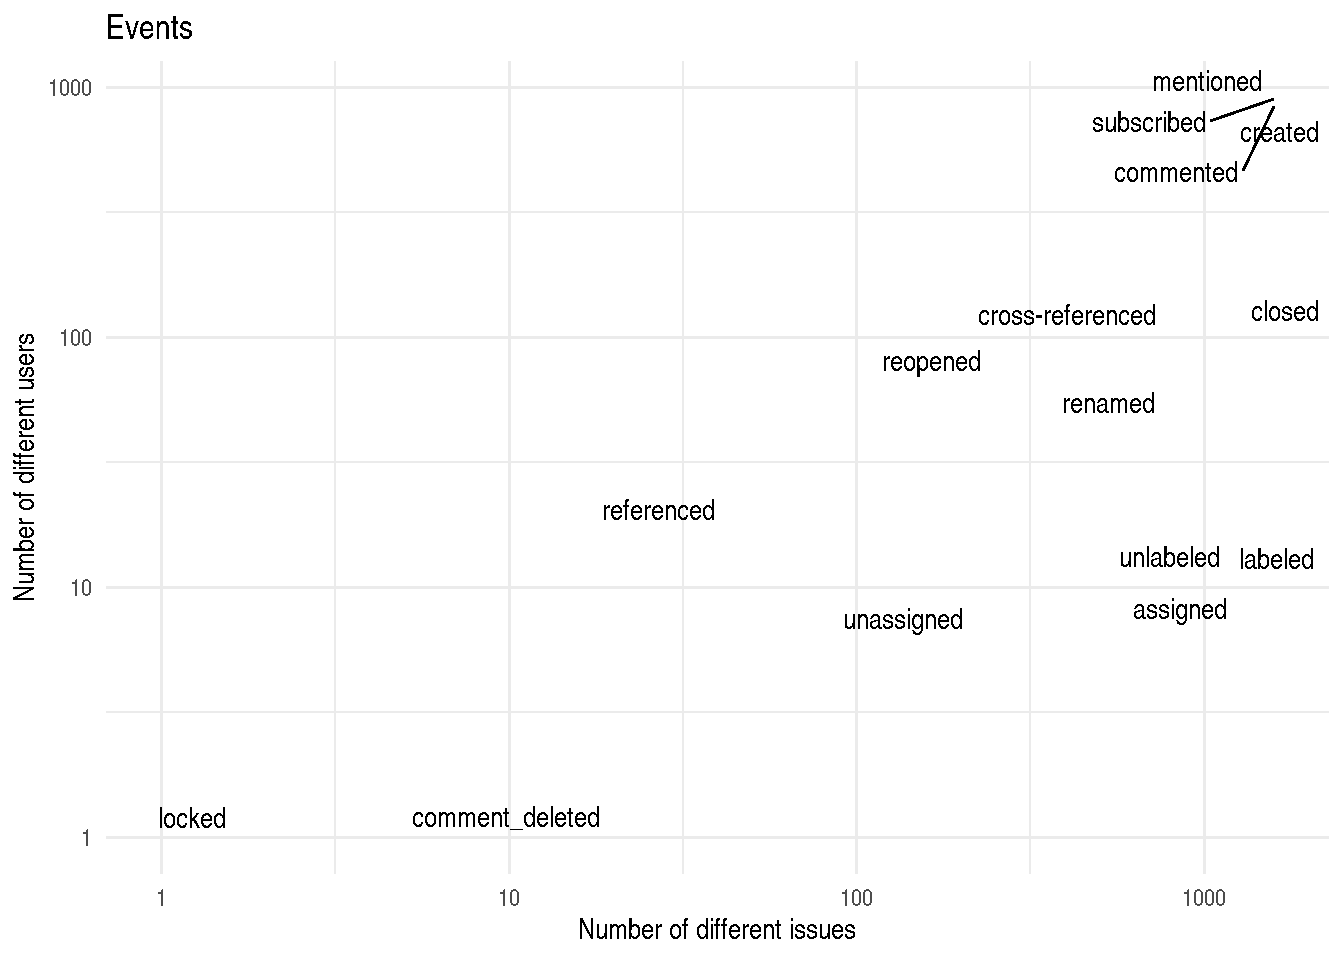
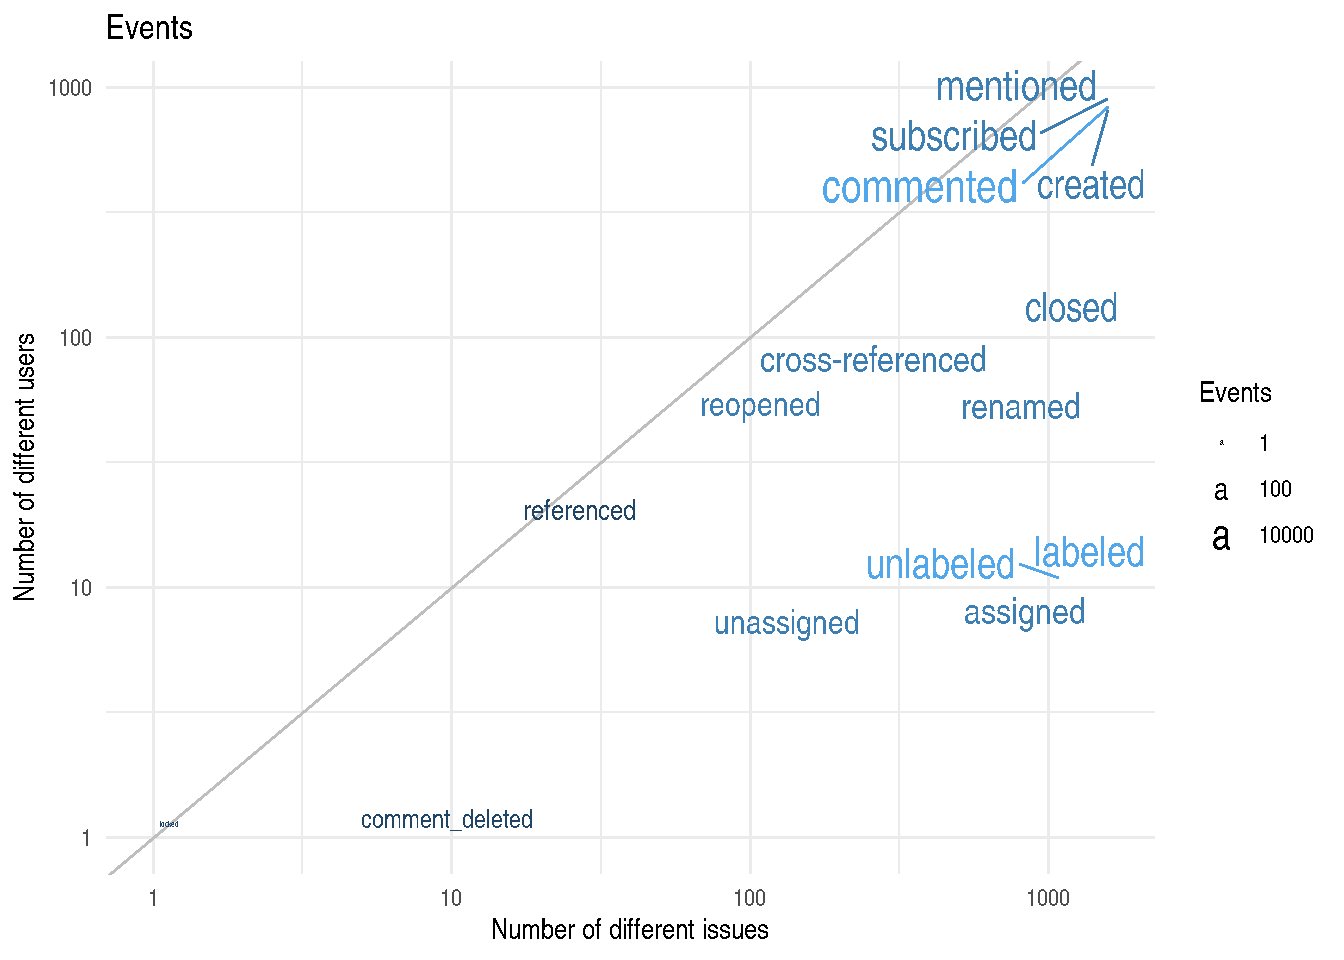
Update plots

diff --git a/content/post/2020-07-09-bioconductor-submissions-reviews.en.html b/content/post/2020-07-09-bioconductor-submissions-reviews.en.html
@@ -31,20 +31,25 @@ summary: 'Looking in detail to Bioconductor sumbissions: interactions between bo
 <li>issues assigned to multiple people or issues that switched reviewers</li>
 </ul>
 <p>To answer both of them I needed more information.
-On the previous post I only gathered the information of the state of the issues at that moment.
+On the <a href="https://llrs.dev/2020/06/bioconductor-submissions/">previous post</a> I only gathered the information of the state of the issues at that moment.
 This excluded label changes, reviewer changes, renaming the issues, who commented on the issues and many more things.
-To retrieve these information from github I developed a <a href="https://llrs.dev/2020/06/social-github/">new package</a> <a href="https://github.com/llrs/socialGH"><code>{socialGH}</code></a> which downloads it from <a href="https://github.com">Github</a> to make the analysis possible.</p>
-<p>Now that we have more data about the issues we can plot them similarly to what we did on the previous post:</p>
+To retrieve these information from github I developed a <a href="https://llrs.dev/2020/06/social-github/">new package</a> <a href="https://github.com/llrs/socialGH"><code>{socialGH}</code></a> which downloads it from <a href="https://github.com">Github</a> to make this analysis possible.</p>
+<p>I gathered all the information on issues using <a href="https://github.com/llrs/socialGH"><code>{socialGH}</code></a> on the 2020/08/18 and stored them in a tidy format.
+Now that we have more data about the issues we can plot them similarly to what we did on the previous post:</p>
 <p><img src="/post/2020-07-09-bioconductor-submissions-reviews.en_files/figure-html/first_plot-1.png" width="672" /></p>
-<p>We can see that sometimes the issues remained silent for several months and then had a high level of events, or a single one (closing).</p>
+<p>We can see that sometimes the issues remained silent for several months and then had a high level of events, or a single one (closing mainly).</p>
 <p>Compare to the previous version it is surprising to see that one of the earliest issues still gets new events to date.
-Apparently <a href="https://github.com/Bioconductor/Contributions">issue 51</a>, and others, are being used to test the Bioconductor builder.</p>
-<p><img src="/post/2020-07-09-bioconductor-submissions-reviews.en_files/figure-html/by_user-1.png" width="672" /><img src="/post/2020-07-09-bioconductor-submissions-reviews.en_files/figure-html/by_user-2.png" width="672" /></p>
+Apparently <a href="https://github.com/Bioconductor/Contributions/issues/51">issue 51</a>, and <a href="https://github.com/Bioconductor/Contributions/issues?q=label%3ATESTING+is%3Aclosed">others</a>, are being used to test the Bioconductor builder or the bot used to automate the process.</p>
+<p><img src="/post/2020-07-09-bioconductor-submissions-reviews.en_files/figure-html/by_user-1.png" width="672" /></p>
+<p>We can see that some reviewers comment more and are involved in more issues, but there is a group of fairly similar comments and issues.</p>
+<p>Clearly this will not be the same with users who submit packages:</p>
+<p><img src="/post/2020-07-09-bioconductor-submissions-reviews.en_files/figure-html/by_user2-1.png" width="672" /></p>
+<p>We can clearly see that most users are mainly only involved on submitting packages on one issue, but some people participate a lot and/or in several issues.</p>
 <div id="events" class="section level1">
 <h1>Events</h1>
 <p>We cab count how many users and issues have been involved with each event type:</p>
 <p><img src="/post/2020-07-09-bioconductor-submissions-reviews.en_files/figure-html/events_view-1.png" width="672" /></p>
-<p>We can see that few issues are locked or comments deleted.
+<p>We can see that few issues are locked (remember that it is different than closing the issue) or comments deleted.
 There is an almost equal amount of labeling and unlabeling, performed by few people but on lots of issues.
 There is a group of mentioning, commenting and subscribing too.
 Many people is involved on commenting and creating submissions.</p>
@@ -52,17 +57,27 @@ Many people is involved on commenting and creating submissions.</p>
 <p><img src="/post/2020-07-09-bioconductor-submissions-reviews.en_files/figure-html/second_plot-1.png" width="672" /></p>
 <p>We can see that most issues have few events which agrees with the previous findings that issues are handled fairly and expeditiously.</p>
 <p>The most common event are comments, mentions and the rarest events are deleting comments, locking or referencing them.</p>
-<p><img src="/post/2020-07-09-bioconductor-submissions-reviews.en_files/figure-html/events_time-1.png" width="672" /><img src="/post/2020-07-09-bioconductor-submissions-reviews.en_files/figure-html/events_time-2.png" width="672" /><img src="/post/2020-07-09-bioconductor-submissions-reviews.en_files/figure-html/events_time-3.png" width="672" /></p>
+<p><img src="/post/2020-07-09-bioconductor-submissions-reviews.en_files/figure-html/events_time-1.png" width="672" /></p>
+<p>We can see that most issues get around 50 events, but we can clearly see lots of issues that receive very few events.</p>
+<p><img src="/post/2020-07-09-bioconductor-submissions-reviews.en_files/figure-html/events_time2-1.png" width="672" /></p>
+<p>However, looking at the distribution along time most of the events are on the first 6 months after opening the issue.</p>
+<p><img src="/post/2020-07-09-bioconductor-submissions-reviews.en_files/figure-html/events_time3-1.png" width="672" /></p>
 <p>Some submissions have many events while others have few events but last longer.
-This is without looking at issues that were closed and later reopened.
+This is without looking at issues that were closed and later reopened, or the involvement of bioc-issue-bot.
 We can see that in a short amount of days a lot of events can be triggered.
 This is mostly that for each version update there are at least two messages on the issue.</p>
+</div>
+<div id="reviews" class="section level1">
+<h1>Reviews</h1>
+<p>Most of the differences are due to the automatic or manual review of the submissions.</p>
+<p>After passing some preliminary checks a reviewer is assigned to manually review the package:</p>
 <p><img src="/post/2020-07-09-bioconductor-submissions-reviews.en_files/figure-html/assignments-1.png" width="672" /></p>
 <p>We can see that usually some adjustment to reviewers is made usually changing them but some times they are added to have more than 1 reviewer (194).
 Almost all the submitted packages without a reviewer (537 submissions) were rejected except for three: <a href="https://github.com/Bioconductor/Contributions/issues/81">81</a>, <a href="https://github.com/Bioconductor/Contributions/issues/82">82</a>, <a href="https://github.com/Bioconductor/Contributions/issues/83">83</a> that were reviewed by <a href="https://github.com/vobencha">vobencha</a> even if not officially assigned.
 Some of these were rejected because they didn’t pass some automatic check and other after preliminary inspection.</p>
+<p>If some of these preliminary checks aren’t corrected the issue is closed:</p>
 <p><img src="/post/2020-07-09-bioconductor-submissions-reviews.en_files/figure-html/open_close2-1.png" width="672" /></p>
-<p>We can see that is common to close and reopen issues, but they are generally done by the same people (the reviewer or the original submitter)</p>
+<p>We can see that is common to close and reopen issues, but they are generally done by the same people (the reviewer, the original submitter or the bot).</p>
 <p><img src="/post/2020-07-09-bioconductor-submissions-reviews.en_files/figure-html/submission_acceptance-1.png" width="672" /></p>
 <p>On submissions with a reviewer assigned that were closed by someone (not the submitter), we can see here that reviews with more than one reviewer do not lead to significantly more comments from the reviewers.</p>
 <p>Although it seems like this leads to have the package approved.</p>
@@ -204,6 +219,7 @@ This comment might be the review of the package, as it is only done after the su
 </tr>
 </tbody>
 </table>
+<p>These measures are with median days</p>
 </div>
 <div id="conclusions" class="section level1">
 <h1>Conclusions</h1>
